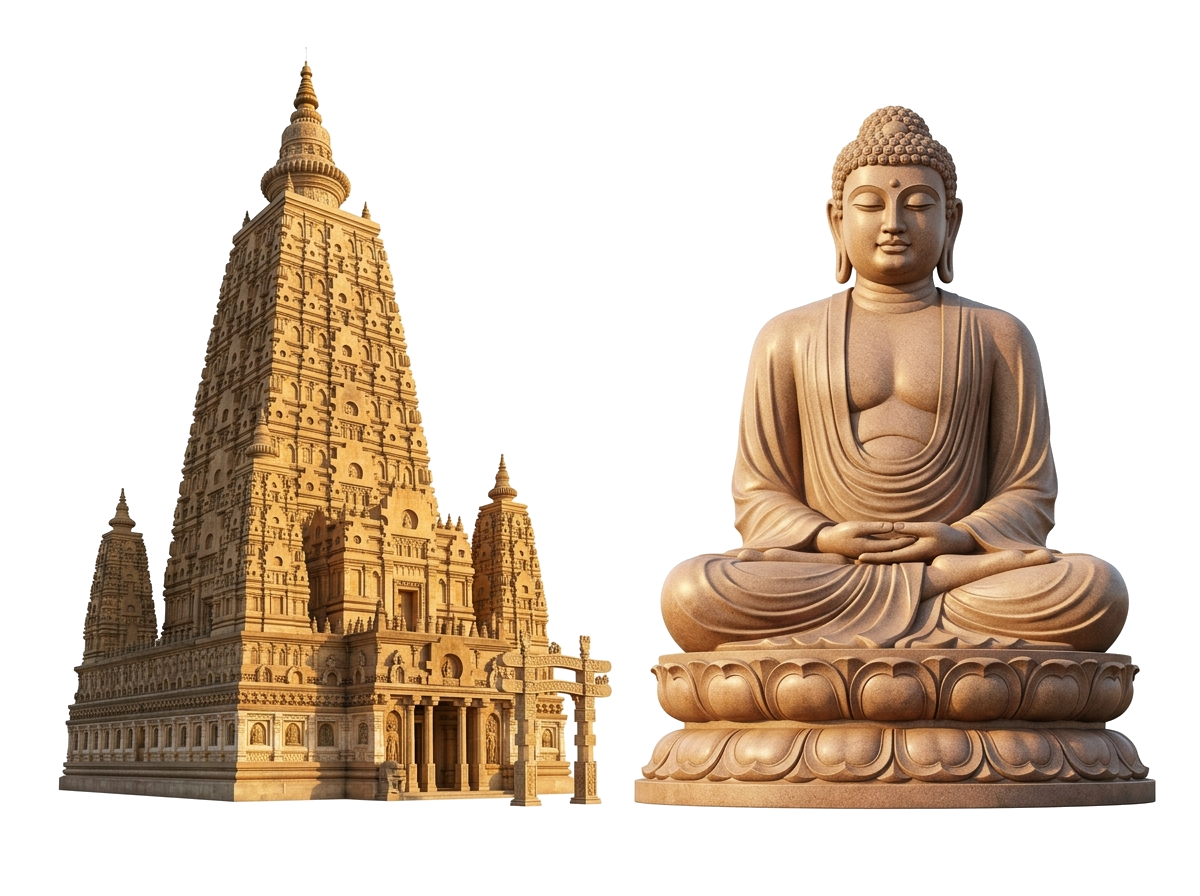
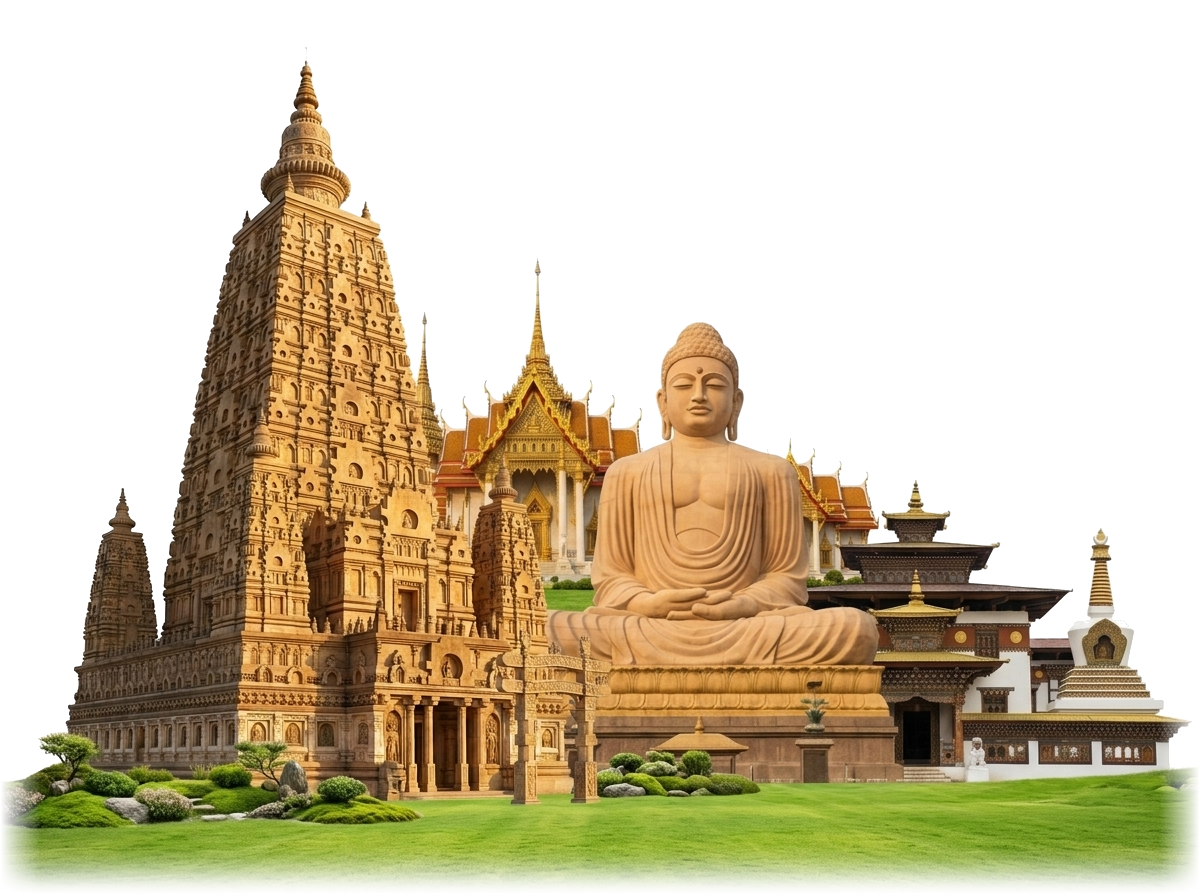
feat: replace desktop hero artwork with transparent Mahabodhi, 80ft Buddha, monasteries, and calm green grass

diff --git a/src/components/HeroSection.tsx b/src/components/HeroSection.tsx
@@ -96,16 +96,16 @@ export default function HeroSection({
             </div>
           </ScrollReveal>
 
-          {/* Desktop Right Column: Transparent Mahabodhi & 80 Feet Buddha Artwork */}
+          {/* Desktop Right Column: Transparent Mahabodhi Temple, 80ft Great Buddha & Monasteries with Calm Green Grass Lawn */}
           <ScrollReveal variant="fade" delayMs={80} className="hidden lg:flex lg:col-span-6 items-center justify-center relative select-none">
             <Image
               src="/images/mahabodhi-buddha-transparent.webp"
-              alt="Sacred Mahabodhi Temple spire and 80 Feet Great Buddha statue in Bodhgaya"
+              alt="Sacred Mahabodhi Temple, 80 Feet Great Buddha statue, and monasteries in Bodhgaya"
               width={1200}
               height={896}
               priority
               sizes="(max-width: 1024px) 50vw, 45vw"
-              className="w-full h-auto max-w-[540px] xl:max-w-[580px] object-contain pointer-events-none drop-shadow-xs"
+              className="w-full h-auto max-w-[540px] xl:max-w-[600px] object-contain pointer-events-none drop-shadow-xs"
             />
           </ScrollReveal>
 
